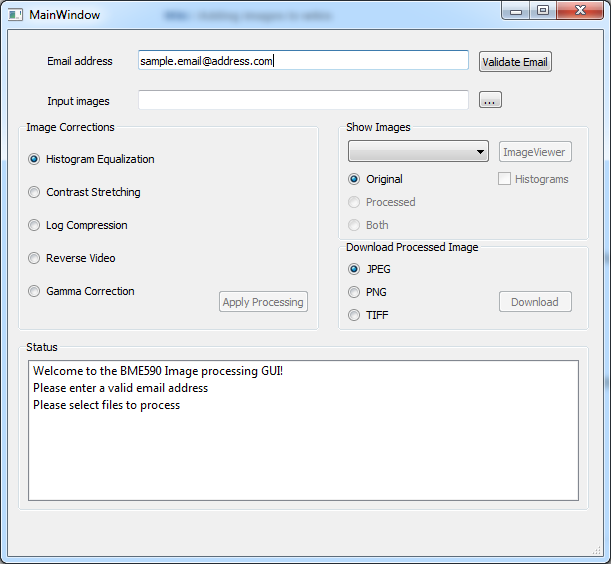
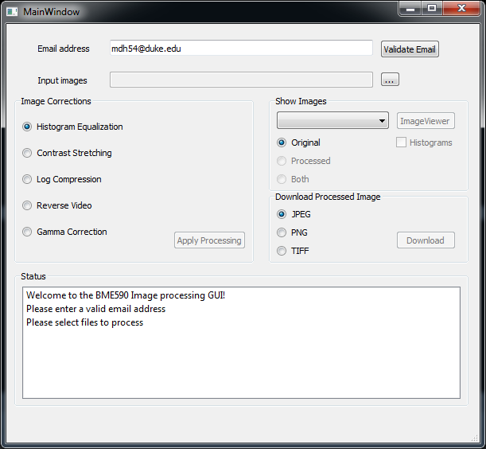
Fixed error where the email wouldn't be saved

Changed region(s): [[0.0, 0.0, 1.0, 1.0], [0.216, 0.0935, 0.463, 0.1247], [0.7407, 0.0935, 0.7716, 0.1247]]

diff --git a/GUI/main_window.py b/GUI/main_window.py
@@ -36,6 +36,9 @@ class MainWindow(QtWidgets.QMainWindow):
         # self.ui.radioButtonShowOriginal.toggled.connect(self.pullcombotext)
         # self.ui.radioButtonShowProcessed.toggled.connect(self.pullcombotext)
 
+        # Disable the Input Images field
+        self.ui.lineEditLoad.setEnabled(False)
+
         # Callbacks for button presses
         self.ui.pushButtonApply.clicked.connect(self.apply_clicked)
         self.ui.pushButtonDonwload.clicked.connect(self.download_clicked)

diff --git a/GUI/server_status.py b/GUI/server_status.py
@@ -1,0 +1,18 @@
+from time import sleep
+import requests
+from PyQt5.QtCore import QThread, pyqtSignal
+
+
+class SeverStatus(QThread):
+    """
+    Runs a separate thread which pings the server for status updates
+    """
+    def __init__(self):
+
+        self.status = False
+        self.ip = 'http://127.0.0.1:5000/status'  # UPDATE ADDRESS
+
+    def run(self):
+
+        requests.post(self.ip,
+                      json='')

diff --git a/GUI/utils.py b/GUI/utils.py
@@ -9,7 +9,7 @@ def save_email(email):
 
     """
 
-    f = open('../GUI/LastEmail.log', 'w')
+    f = open('GUI/LastEmail.log', 'w')
 
     f.write(email)
 

diff --git a/README.md b/README.md
@@ -13,4 +13,30 @@ images and processing methods and a server endpoint which performs all of the
 processing. Processed images are returned to the user to view and download.
 
 ## About the GUI
+The user interface was constructed using [PyQt5](https://www.riverbankcomputing.com/software/pyqt/intro)
+. It allows the user to select images, processing methods, view the original 
+and processed images, and download processed images in a variety of 
+formats. The main page of the GUI is shown below:
+
 ![GUI interface](ProjectIms/GUI.png)
+
+The GUI can be accessed by running `frontEndGUI.py` in the main project 
+directory.
+
+### Email address
+The before any options become avaliable the GUI asks for your email address. 
+The address must be validated before other options become available. Your 
+information is used only as a user identifier and is not shared with outside 
+parties.
+
+### Input images
+Single and sets of images, including zip files containing images, can be 
+loaded into the program using the button labeled `...`. This will bring up 
+the following dialog box:
+
+![load image dialog](ProjectIms/open_im.png)
+
+Images will be loaded into memory once they have been selected. The field 
+titled `Input images` will be updated to show the first image selected.
+
+
